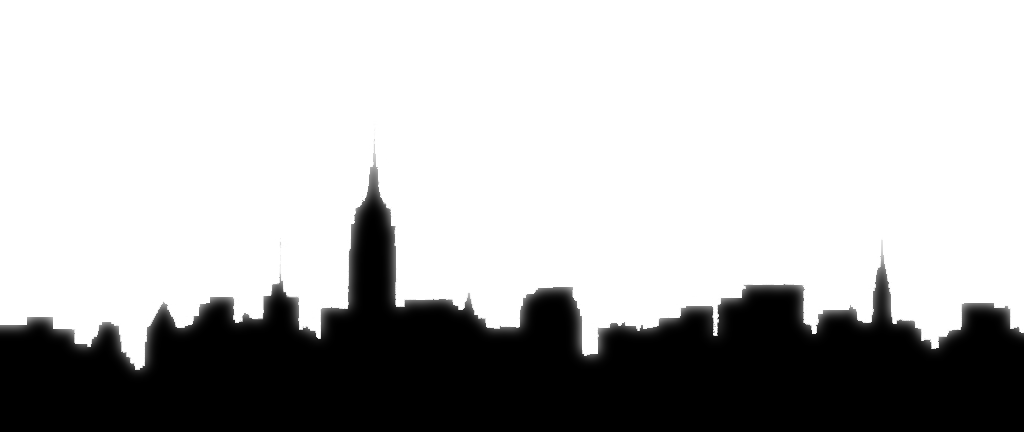
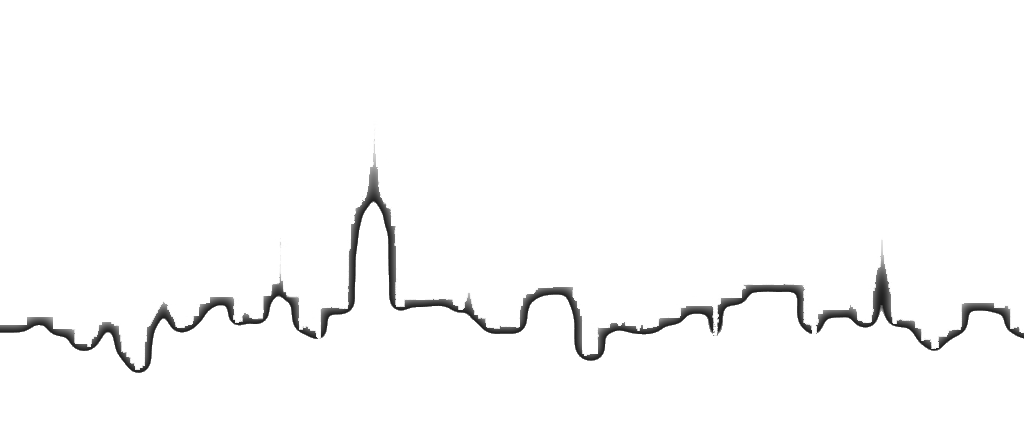
Using Google font for h1 title ("ECO RANGERS"), changed skyline to white

Changed region(s): [[0.0, 0.4514, 1.0, 1.0]]

diff --git a/app/assets/stylesheets/application.scss b/app/assets/stylesheets/application.scss
@@ -1,6 +1,10 @@
 @import "bootstrap-sprockets";
 @import "bootstrap";
 
+h1 {
+  font-family: 'Bungee Shade', cursive;
+}
+
 .map_container {
   width: 800px;
   height: 400px;
